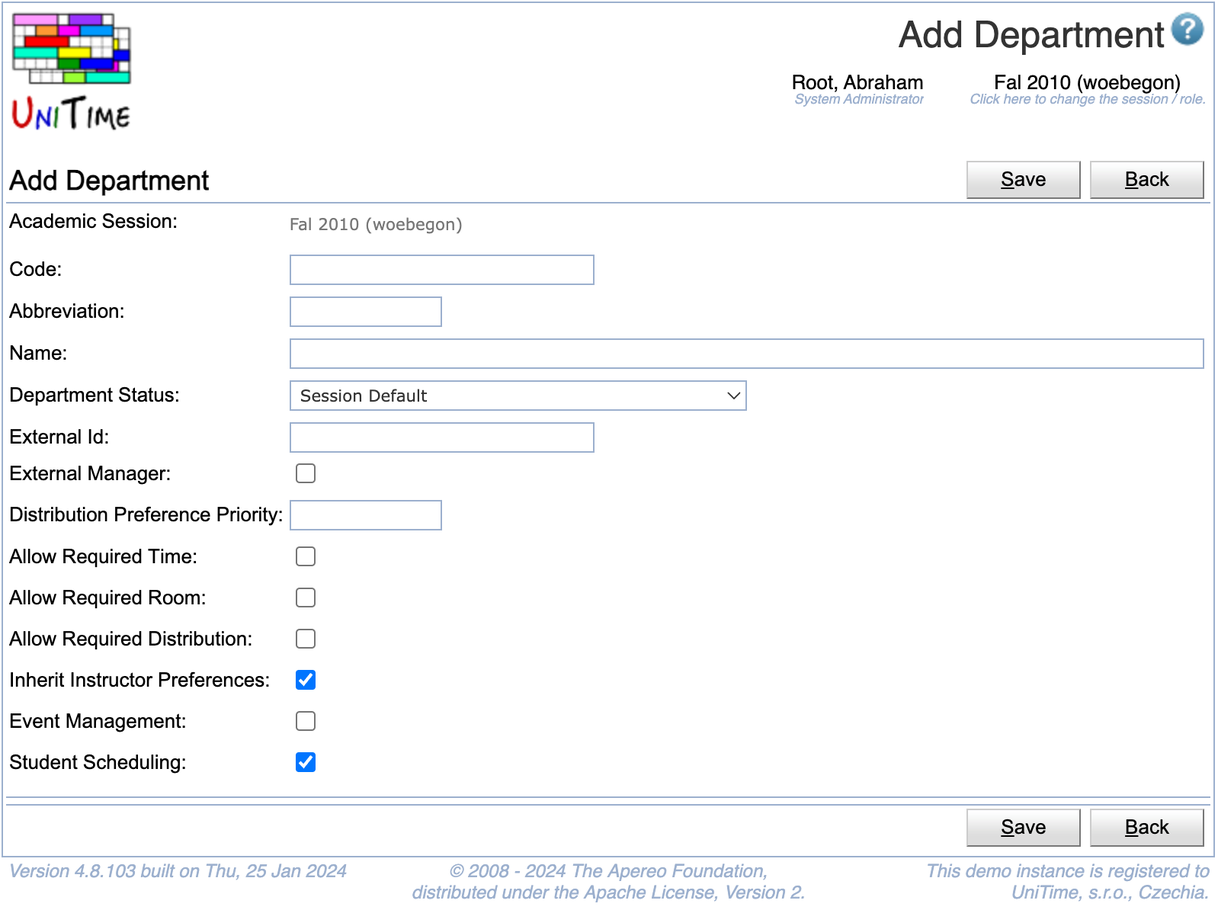
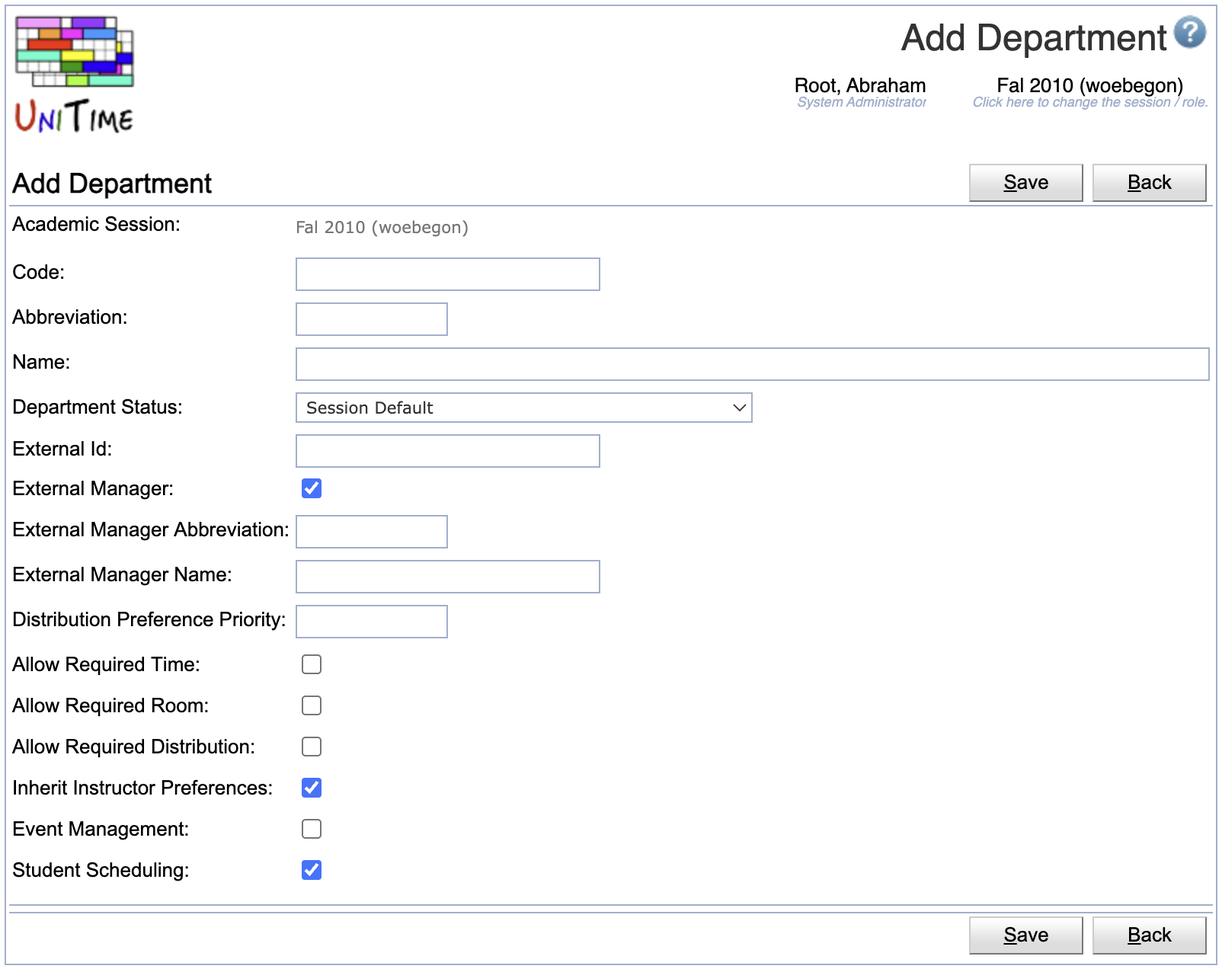
Departments
- new screenshot, describtion of the available item

Changed region(s): [[0.0, 0.0, 1.0, 1.0]]

diff --git a/edit-department.md b/edit-department.md
@@ -13,84 +13,93 @@ Edit an existing department in the Edit Department screen.
 ## Details
 
 * **Academic Session**
-	* The academic session for which you are editing the department
-	* Can be changed in the [Academic Sessions](academic-sessions) screen
+    * The academic session for which you are editing the department
+    * Can be changed in the [Academic Sessions](academic-sessions) screen
 
 * **Number / Code**
-	* Departmental identifier
-	* Used in imports/exports (corresponds to the "department" element in the XML staff file)
+    * Departmental identifier
+    * Used in imports/exports (corresponds to the "department" element in the XML staff file)
 
 * **Abbreviation**
-	* Departmental abbreviation
+    * Departmental abbreviation
 
 * **Name**
-	* Name of the department
+    * Name of the department
 
 * **Departmental Status**
-	* Current status of the department
-	* Options (set up in the [Status Types](status-types) screen)
-		* Session Default - the default status of the academic session (the default session is set up from the [Academic Sessions](academic-sessions) screen)
-		* External Manager Input Data Entry - this status is only applicable to departments that are marked as external manager; the departmental schedule managers can not edit classes belonging to this externally managed department (nor see preferences of these classes) and also cannot change ownership of these classes or make another classes externally managed by this department; external managers (users associated with this department) can edit classes that are externally managed by this department
-		* External Manager Timetabling - this status is only applicable to departments that are marked as external manager; schedule managers can only change instructor assignments on classes that are externally managed by this department (using screen [Assign Instructors](assign-instructors), they also cannot see preferences of these classes), external managers can edit classes and commit/uncommit a timetable
-		* External Manager Timetabling (No Instructor Timetabling) - same as above, except that the departmental schedule deputies cannot edit instructor assignments for externally managed classes
-		* External Manager Timetable Published - this status is only applicable to departments that are marked as external manager; time/room assignments published (a timetable is committed), neither schedule managers nor external managers can edit anything any more
-		* Department Read Only - this status is only applicable to departments that are NOT marked as external manager; only the administrator can edit departmental data
-		* Department Allow Edit - this status is only applicable to departments that are NOT marked as external manager; when session default is departmental read only, an individual department can be allowed to continue editing and timetabling of their departmental classes (i.e., classes that are not externally managed)
+    * Current status of the department
+    * The department statuses can be used to control access for a particular department, providing a finer level of control than the academic session status.
+    * Available statuses by default (these can be configured using the [Status Types](status-types) screen)
+        * **Session Default** - the default status of the academic session (the default session is set up from the [Academic Sessions](academic-sessions) screen)
+        * **External Manager Input Data Entry** - this status is only applicable to departments that are marked as external manager; the departmental schedule managers can not edit classes belonging to this externally managed department (nor see preferences of these classes) and also cannot change ownership of these classes or make another classes externally managed by this department; external managers (users associated with this department) can edit classes that are externally managed by this department
+        * **External Manager Timetabling** - this status is only applicable to departments that are marked as external manager; schedule managers can only change instructor assignments on classes that are externally managed by this department (using screen [Assign Instructors](assign-instructors), they also cannot see preferences of these classes), external managers can edit classes and commit/uncommit a timetable
+        * **External Manager Timetabling (No Instructor Assignments)** - same as above, except that the departmental schedule deputies cannot edit instructor assignments for externally managed classes
+        * **External Manager Timetable Published** - this status is only applicable to departments that are marked as external manager; time/room assignments published (a timetable is committed), neither schedule managers nor external managers can edit anything anymore
+        * **Department Read Only** - this status is only applicable to departments that are NOT marked as external manager; only the administrator can edit departmental data
+        * **Department Allow Edit** - this status is only applicable to departments that are NOT marked as external manager; when the session default is departmental read only, an individual department can be allowed to continue editing and timetabling of their departmental classes (i.e., classes that are not externally managed)
 
-* **External ID**
-	* External ID of the department (this ID can be used for synchronization of department data with outside systems). It is not related to external managers.
+* **External Id**
+    * External ID of the department (this ID can be used for synchronization of department data with outside systems). It is not related to external managers.
 
 * **External Manager**
-	* Checked if the department manages classes from other departments (classes associated with this department will be 'externally' managed, i.e., this department does not have subject areas of its own and serves to timetable a subset of classes from other departments/subject areas that should be considered together (e.g., due to shared resources), for example, classes in large lecture rooms or computing labs).
-	* A class can be managed either by its own department (i.e., the department that is associated with the subject area of the class), or by one of the departments that are marked as external manager. This ownership of a class (or a set of classes) can be changed on pages [Instructional Offering Configuration](instructional-offering-configuration), [Multiple Class Setup](multiple-class-setup)).
-		* A department can be made externally managed, only if it does not have any subject areas associated with it.
-		* An externally managed department can be changed back to not-externally managed department, if there is no class that is being managed by the department (i.e., there is no class with ownership changed to this department).
+    * Checked if the department manages classes from other departments (classes associated with this department will be 'externally' managed, i.e., this department does not have subject areas of its own and serves to timetable a subset of classes from other departments/subject areas that should be considered together (e.g., due to shared resources), for example, classes in large lecture rooms or computing labs).
+    * A class can be managed either by its own department (i.e., the department that is associated with the subject area of the class), or by one of the departments that are marked as an external manager. This ownership of a class (or a set of classes) can be changed on pages [Instructional Offering Configuration](instructional-offering-configuration), [Multiple Class Setup](multiple-class-setup).
+        * A department can be made externally managed only if it does not have any subject areas associated with it.
+        * An externally managed department can be changed back to a non-externally managed department if there is no class that is being managed by the department (i.e., there is no class with ownership changed to this department).
 
 * **External Manager Abbreviation**
-	* Fill in if this department is externally managed
+    * Fill in if this department is externally managed
 
 * **External Manager Name**
-	* Fill in if this department is externally managed
+    * Fill in if this department is externally managed
 
 * **Distribution Preference Priority**
-	* A distribution preference set up between different departments is applied to the department with the highest number
-	* This priority should correspond with the order in which departments (classes that are managed by these departments) are being timetabled (e.g., large rooms first, then all departmental problems, then computing labs)
+    * A distribution preference set up between different departments is applied to the department with the highest number
+    * This priority should correspond with the order in which departments (classes that are managed by these departments) are being timetabled (e.g., large rooms first, then all departmental problems, then computing labs)
 
 * **Allow Required Time**
-	* Option for an externally managed department
-	* Check if the departmental schedule deputies should be allowed to enter required times (by default, they cannot use required/prohibited for time preferences)
+    * Option for an externally managed department
+    * Check if the departmental schedule deputies should be allowed to enter required times (by default, they cannot use required/prohibited for time preferences)
 
 * **Allow Required Room**
-	* Option for an externally managed department
-	* Check if the departmental schedule deputies should be allowed to enter required rooms (by default, they cannot use required/prohibited for room preferences)
+    * Option for an externally managed department
+    * Check if the departmental schedule deputies should be allowed to enter required rooms (by default, they cannot use required/prohibited for room preferences)
 
 * **Allow Required Distribution**
-	* Option for an externally managed department
-	* Check if the departmental schedule deputies should be allowed to enter required distribution preferences (by default, they cannot use required/prohibited for distribution preferences)
+    * Option for an externally managed department
+    * Check if the departmental schedule deputies should be allowed to enter required distribution preferences (by default, they cannot use required/prohibited for distribution preferences)
 
 * **Inherit Instructor Preferences**
-	* Check if instructor preferences should be automatically carried over to classes
+    * Check if instructor preferences should be automatically carried over to classes
+    * Required/prohibited preferences set on the instructor may be weakened (to strongly preferred/discouraged) when required/prohibited preferences are not allowed
+    * If not checked, the instructor preferences can be copied over from the instructor to the class on the [Edit Class](edit-class) screen (when the instructor is being added onto/removed from the class using the [Edit Class](edit-class) screen)
 
 * **Event Management**
-	* Check if event management is enabled for this department
+    * Check if event management is enabled for this department
 
 * **Student Scheduling**
-	* Check if courses of this department should be included in student scheduling
+    * Check if courses of this department should be included in student scheduling
 
 * **External Funding Department**
-	* Check if this department can be used as an external funding department for classes
-		* This field is not visible by default. To enable this field the `unitime.courses.funding_departments_enabled` application property must be set to `true`.
+    * Check if this department can be used as an external funding department for classes
+    * This column is not visible by default.  To enable this column, the `unitime.courses.funding_departments_enabled` application property must be set to true in the [Application Configuration](application-configuration)
+
+### Controlling Department Statuses
+
+This table is only available when editing an externally managed department. It allows for providing a department status that applies to classes that are controlled by the selected controlling department and managed/timetabled by this externally managed department.
+
+**Example use case:** So, for example, while the Large Lecture Room classes are no longer allowed to be updated by the individual Departmental Scheduling Managers of their controlling department (department of the subject area of the controlling class), a particular department (e.g., that is running late) may still be allowed to make changes without giving access to all other departments.
 
 ## Operations
 
 * **Update** (ALT+U)
-	* Save changes and go back to the [Departments](departments) screen
+    * Save changes and go back to the [Departments](departments) screen
 
 * **Delete** (Alt+D)
-	* Delete department and go back to the [Departments](departments) screen
-	* This operation is only available when it is allowed to delete a department
-		* A department cannot be deleted if it has a solver group or if there is a course offered in one of its subject areas.
+    * Delete department and go back to the [Departments](departments) screen
+    * This operation is only available when it is allowed to delete a department
+        * A department cannot be deleted if it has a solver group or if there is a course offered in one of its subject areas.
 
 * **Back** (ALT+B)
-	* Go back to the [Departments](departments) screen without saving changes
+    * Go back to the [Departments](departments) screen without saving changes
 

diff --git a/add-department.md b/add-department.md
@@ -13,81 +13,84 @@ Add a new department in the Add Department screen.
 ## Details
 
 * **Academic Session**
-	* The academic session for which you are adding the department
-	* Can be changed in the [Academic Sessions](academic-sessions) screen
+    * The academic session for which you are adding the department
+    * Can be changed in the [Academic Sessions](academic-sessions) screen
 
 * **Number / Code**
-	* Departmental identifier
-	* Used in imports/exports (corresponds to the "department" element in the XML staff file)
+    * Departmental identifier
+    * Used in imports/exports (corresponds to the "department" element in the XML staff file)
 
 * **Abbreviation**
-	* Departmental abbreviation
+    * Departmental abbreviation
 
 * **Name**
-	* Name of the department
+    * Name of the department
 
 * **Departmental Status**
-	* Current status of the department
-	* Options (set up in the [Status Types](status-types) screen)
-		* Session Default - the default status of the academic session (the default session is set up from the [Academic Sessions](academic-sessions) screen)
-		* External Manager Input Data Entry - this status is only applicable to departments that are marked as external manager; the departmental schedule managers can not edit classes belonging to this externally managed department (nor see preferences of these classes) and also cannot change ownership of these classes or make another classes externally managed by this department; external managers (users associated with this department) can edit classes that are externally managed by this department
-		* External Manager Timetabling - this status is only applicable to departments that are marked as external manager; schedule managers can only change instructor assignments on classes that are externally managed by this department (using screen [Assign Instructors](assign-instructors), they also cannot see preferences of these classes), external managers can edit classes and commit/uncommit a timetable
-		* External Manager Timetabling (No Instructor Timetabling) - same as above, except that the departmental schedule deputies cannot edit instructor assignments for externally managed classes
-		* External Manager Timetable Published - this status is only applicable to departments that are marked as external manager; time/room assignments published (a timetable is committed), neither schedule managers nor external managers can edit anything any more
-		* Department Read Only - this status is only applicable to departments that are NOT marked as external manager; only the administrator can edit departmental data
-		* Department Allow Edit - this status is only applicable to departments that are NOT marked as external manager; when session default is departmental read only, an individual department can be allowed to continue editing and timetabling of their departmental classes (i.e., classes that are not externally managed)
+    * Current status of the department
+    * The department statuses can be used to control access for a particular department, providing a finer level of control than the academic session status.
+    * Available statuses by default (these can be configured using the [Status Types](status-types) screen)
+        * **Session Default** - the default status of the academic session (the default session is set up from the [Academic Sessions](academic-sessions) screen)
+        * **External Manager Input Data Entry** - this status is only applicable to departments that are marked as external manager; the departmental schedule managers can not edit classes belonging to this externally managed department (nor see preferences of these classes) and also cannot change ownership of these classes or make another classes externally managed by this department; external managers (users associated with this department) can edit classes that are externally managed by this department
+        * **External Manager Timetabling** - this status is only applicable to departments that are marked as external manager; schedule managers can only change instructor assignments on classes that are externally managed by this department (using screen [Assign Instructors](assign-instructors), they also cannot see preferences of these classes), external managers can edit classes and commit/uncommit a timetable
+        * **External Manager Timetabling (No Instructor Assignments)** - same as above, except that the departmental schedule deputies cannot edit instructor assignments for externally managed classes
+        * **External Manager Timetable Published** - this status is only applicable to departments that are marked as external manager; time/room assignments published (a timetable is committed), neither schedule managers nor external managers can edit anything anymore
+        * **Department Read Only** - this status is only applicable to departments that are NOT marked as external manager; only the administrator can edit departmental data
+        * **Department Allow Edit** - this status is only applicable to departments that are NOT marked as external manager; when the session default is departmental read only, an individual department can be allowed to continue editing and timetabling of their departmental classes (i.e., classes that are not externally managed)
 
-* **External ID**
-	* External ID of the department (this ID can be used for synchronization of department data with outside systems). It is not related to external managers.
+* **External Id**
+    * External ID of the department (this ID can be used for synchronization of department data with outside systems). It is not related to external managers.
 
 * **External Manager**
-	* Checked if the department manages classes from other departments (classes associated with this department will be 'externally' managed, i.e., this department does not have subject areas of its own and serves to timetable a subset of classes from other departments/subject areas that should be considered together (e.g., due to shared resources), for example, classes in large lecture rooms or computing labs).
-	* A class can be managed either by its own department (i.e., the department that is associated with the subject area of the class), or by one of the departments that are marked as external manager. This ownership of a class (or a set of classes) can be changed on pages [Instructional Offering Configuration](instructional-offering-configuration), [Multiple Class Setup](multiple-class-setup)).
-		* A department can be made externally managed, only if it does not have any subject areas associated with it.
-		* An externally managed department can be changed back to not-externally managed department, if there is no class that is being managed by the department (i.e., there is no class with ownership changed to this department).
+    * Checked if the department manages classes from other departments (classes associated with this department will be 'externally' managed, i.e., this department does not have subject areas of its own and serves to timetable a subset of classes from other departments/subject areas that should be considered together (e.g., due to shared resources), for example, classes in large lecture rooms or computing labs).
+    * A class can be managed either by its own department (i.e., the department that is associated with the subject area of the class), or by one of the departments that are marked as an external manager. This ownership of a class (or a set of classes) can be changed on pages [Instructional Offering Configuration](instructional-offering-configuration), [Multiple Class Setup](multiple-class-setup).
+        * A department can be made externally managed only if it does not have any subject areas associated with it.
+        * An externally managed department can be changed back to a non-externally managed department if there is no class that is being managed by the department (i.e., there is no class with ownership changed to this department).
 
 * **External Manager Abbreviation**
-	* Fill in if this department is externally managed
+    * Fill in if this department is externally managed
 
 * **External Manager Name**
-	* Fill in if this department is externally managed
+    * Fill in if this department is externally managed
 
 * **Distribution Preference Priority**
-	* A distribution preference set up between different departments is applied to the department with the highest number
-	* This priority should correspond with the order in which departments (classes that are managed by these departments) are being timetabled (e.g., large rooms first, then all departmental problems, then computing labs)
+    * A distribution preference set up between different departments is applied to the department with the highest number
+    * This priority should correspond with the order in which departments (classes that are managed by these departments) are being timetabled (e.g., large rooms first, then all departmental problems, then computing labs)
 
 * **Allow Required Time**
-	* Option for an externally managed department
-	* Check if the departmental schedule deputies should be allowed to enter required times (by default, they cannot use required/prohibited for time preferences)
+    * Option for an externally managed department
+    * Check if the departmental schedule deputies should be allowed to enter required times (by default, they cannot use required/prohibited for time preferences)
 
 * **Allow Required Room**
-	* Option for an externally managed department
-	* Check if the departmental schedule deputies should be allowed to enter required rooms (by default, they cannot use required/prohibited for room preferences)
+    * Option for an externally managed department
+    * Check if the departmental schedule deputies should be allowed to enter required rooms (by default, they cannot use required/prohibited for room preferences)
 
 * **Allow Required Distribution**
-	* Option for an externally managed department
-	* Check if the departmental schedule deputies should be allowed to enter required distribution preferences (by default, they cannot use required/prohibited for distribution preferences)
+    * Option for an externally managed department
+    * Check if the departmental schedule deputies should be allowed to enter required distribution preferences (by default, they cannot use required/prohibited for distribution preferences)
 
 * **Inherit Instructor Preferences**
-	* Check if instructor preferences should be automatically carried over to classes
+    * Check if instructor preferences should be automatically carried over to classes
+    * Required/prohibited preferences set on the instructor may be weakened (to strongly preferred/discouraged) when required/prohibited preferences are not allowed
+    * If not checked, the instructor preferences can be copied over from the instructor to the class on the [Edit Class](edit-class) screen (when the instructor is being added onto/removed from the class using the [Edit Class](edit-class) screen)
 
 * **Event Management**
-	* Check if event management is enabled for this department
+    * Check if event management is enabled for this department
 
 * **Student Scheduling**
-	* Check if courses of this department should be included in student scheduling
+    * Check if courses of this department should be included in student scheduling
 
 * **External Funding Department**
-	* Check if this department can be used as an external funding department for classes
-		* This field is not visible by default. To enable this field the `unitime.courses.funding_departments_enabled` application property must be set to `true`.
+    * Check if this department can be used as an external funding department for classes
+    * This column is not visible by default.  To enable this column, the `unitime.courses.funding_departments_enabled` application property must be set to true in the [Application Configuration](application-configuration)
 
 ## Operations
 
 * **Save** (ALT+S)
-	* Save the new department and go back to the [Departments](departments) screen
+    * Save the new department and go back to the [Departments](departments) screen
 
 * **Back** (ALT+B)
-	* Go back to the [Departments](departments) screen without saving the department
+    * Go back to the [Departments](departments) screen without saving the department
 
 
 

diff --git a/departments.md b/departments.md
@@ -14,64 +14,67 @@ The Departments screen contains a list of departments. Click on any department t
 
 The top line contains the session for which the list is valid. You can change the session from the [Academic Sessions](academic-sessions) screen.
 
-The list of departments consists of the following columns
+The list of departments consists of the following columns:
 
 * **Code**
-	* The departmental number (may be the departmental ID within the university)
-	* Used in imports/exports (corresponds to the "department" element in the XML staff file)
+    * The departmental number (maybe the departmental ID within the university)
+    * Used in imports/exports (corresponds to the "department" element in the XML staff file)
 
 * **Abbreviation**
-	* Abbreviation of the department
+    * Abbreviation of the department
 
 * **Name**
-	* Name of the department
+    * Name of the department
 
 * **External Manager**
-	* The abbreviation of the external manager if the department externally manages classes
+    * The abbreviation of the external manager if the department externally manages classes
 
 * **Subjects**
-	* Number of subject areas associated with the department
+    * Number of [subject areas](subject-area) associated with the department
 
 * **Rooms**
-	* Number of rooms available to this department for timetabling
+    * Number of [rooms](rooms) available to this department for timetabling
 
 * **Status**
-	* Status of the department (see possible values in the description of the [Edit Department](edit-department) screen)
+    * Status of the department (see possible values in the description of the [Edit Department](edit-department) screen)
+    * The department statuses can be used to control access for a particular department, providing a finer level of control than the academic session status.
 
 * **Distribution Preference Priority**
-	* A distribution preference set up between different departments is applied to the department with the highest number
-	* This priority should correspond with the order in which the problems are being solved (e.g., large rooms first, then all departmental problems, then computing labs)
+    * A distribution preference set up between different departments is applied to the department with the highest number
+    * This priority should correspond with the order in which the problems are being solved (e.g., large rooms first, then all departmental problems, then computing labs)
 
 * **Allow Required**
-	* By default, the departmental schedule managers of regular departments cannot use required/prohibited when setting preferences for the classes managed by an external manager
-	* "Required/Prohibited" can be allowed for time preferences, room preferences, or both in the [Edit Department](edit-department) screen
-		* If this "Required/Prohibited" property is set on a department that is marked as external manager, anyone that is allowed to change a class can set required/prohibited preferences on it; if the property is set on a department that is not marked as external manager, managers from that department can put required/prohibited preferences on any externally managed classes from their subject area(s).
+    * By default, the departmental schedule managers of regular departments cannot use required/prohibited when setting preferences for the classes managed by an external manager
+    * "Required/Prohibited" can be allowed for time preferences, room preferences, distribution preferences, or all in the [Edit Department](edit-department) screen
+        * If this "Required/Prohibited" property is set on a department that is marked as an external manager, anyone who is allowed to change a class can set required/prohibited preferences on it.
+        * If the property is set on a department that is not marked as an external manager, managers from that department can put required/prohibited preferences on any externally managed classes from their subject area(s).
+    * The column contains the possible values: **Time**, **Room**, **Distribution**, a combination of these, or **All** when all required/prohibited preferences are allowed
 
 * **Instructor Preferences**
-	* If checked, instructor preferences should be automatically carried over to classes.
+    * If checked, instructor preferences should be automatically carried over to classes.
+    * Required/prohibited preferences set on the instructor may be weakened (to strongly preferred/discouraged) when required/prohibited preferences are not allowed
+    * If not checked, the instructor preferences can be copied over from the instructor to the class on the [Edit Class](edit-class) screen (when the instructor is being added onto/removed from the class using the [Edit Class](edit-class) screen)
 
 * **Events**
-	* If checked, event management is enabled for this department.
+    * If checked, event management is enabled for this department.
 
 * **Student Scheduling**
-	* If checked, courses of this department should be included in student scheduling.
+    * If checked, courses of this department should be included in student scheduling.
 
 * **External Funding Dept**
-	* If checked, the department can be used as an External Funding Department for classes.
-		* This column is not visible by default.  To enable this column the unitime.courses.funding_departments_enabled application property must be set to true.
+    * If checked, the department can be used as an External Funding Department for classes.
+    * This column is not visible by default.  To enable this column, the `unitime.courses.funding_departments_enabled` application property must be set to true in the [Application Configuration](application-configuration)
 
 * **Last Change**
-	* Date and name of the user who made the last change to input data associated with this department
+    * Date and name of the user who made the last change to the input data associated with this department
 
-* **Show all departments (including departments with no manager and no subject area)**
-	* Check to display all departments
-	* By default this is unchecked so that only departments that have some subject areas (and so timetabling can be done for them) are displayed
+**Note:** Check the **Show all departments (including departments with no manager and no subject area)** to display all departments. By default, this is unchecked so that only departments that have some subject areas (and so timetabling can be done for them) are displayed
 
 ## Operations
 
 * **Add Department** (ALT+D)
-	* Add a new department to the list
+    * Add a [new department](add-department) to the list
 
 * **Export PDF** (ALT+P)
-	* Export the list of departments into a PDF document
+    * Export the list of departments into a PDF document
 
